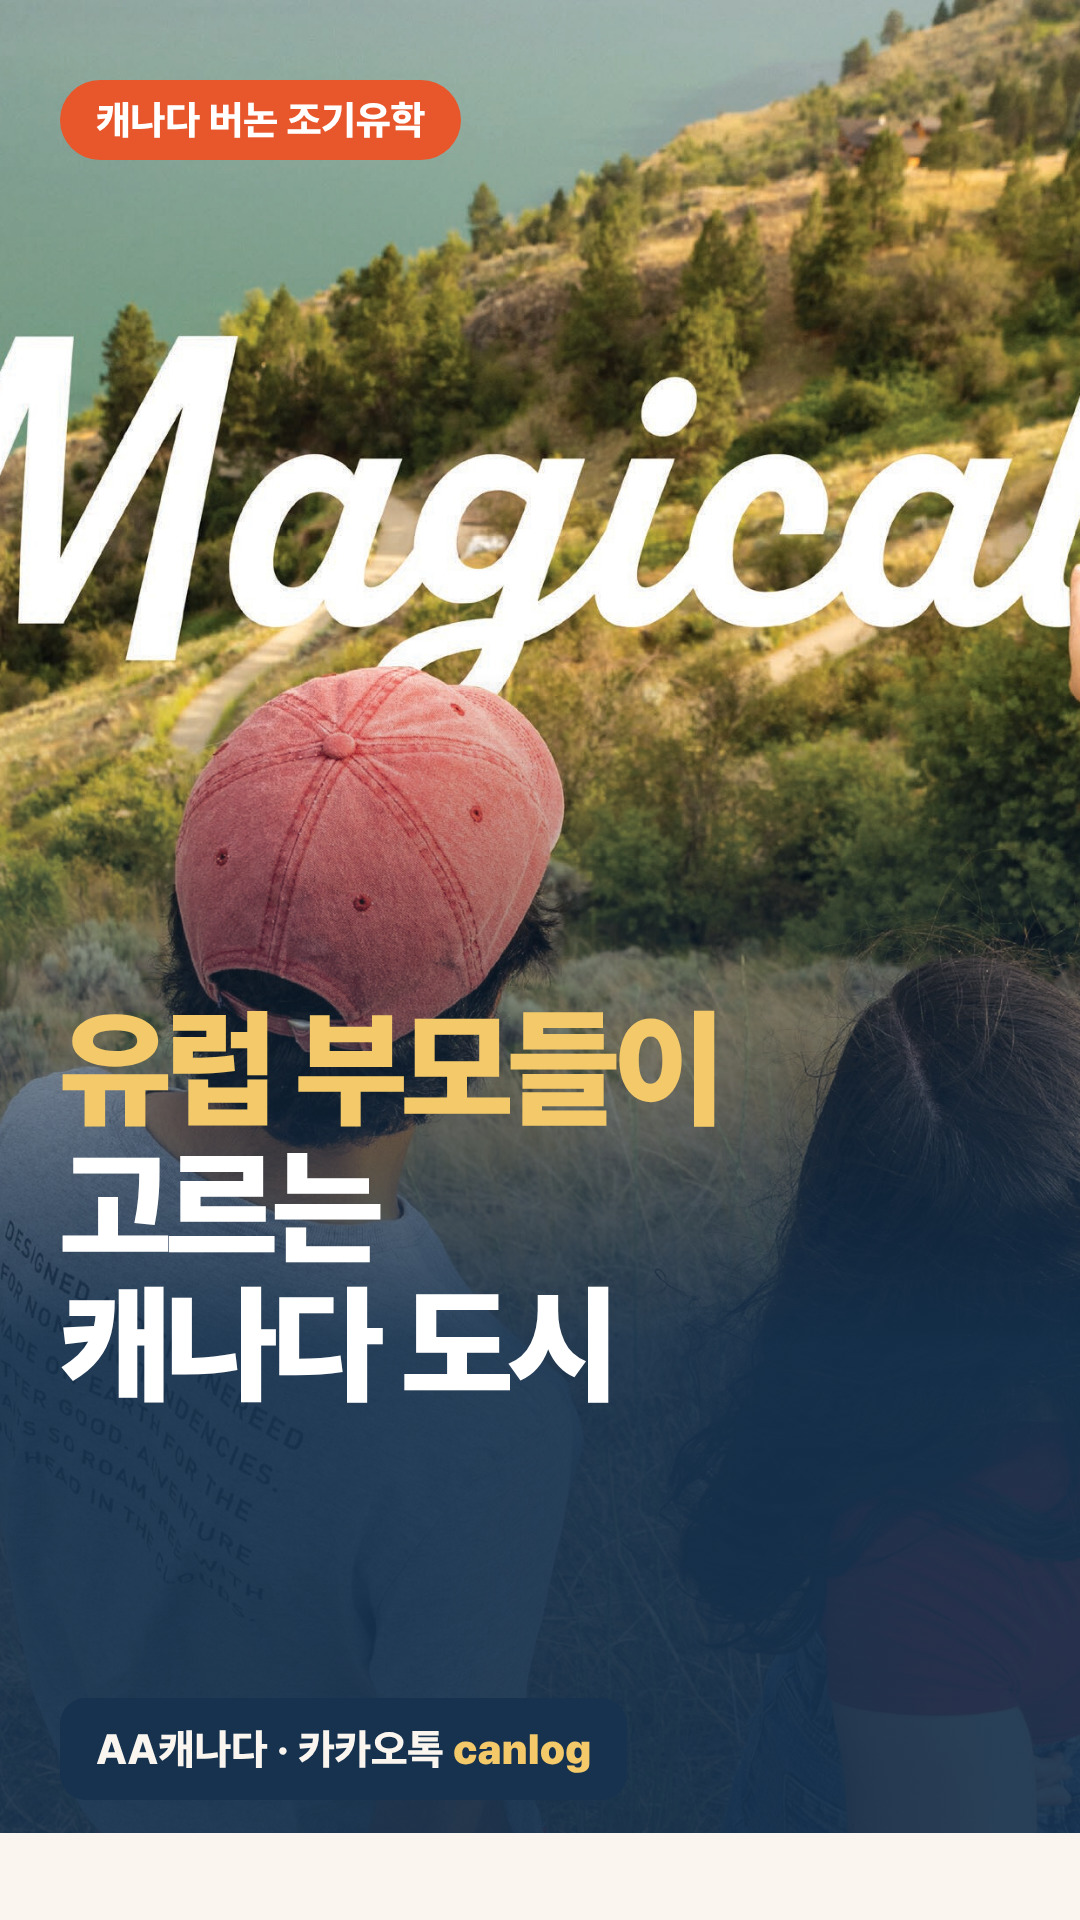
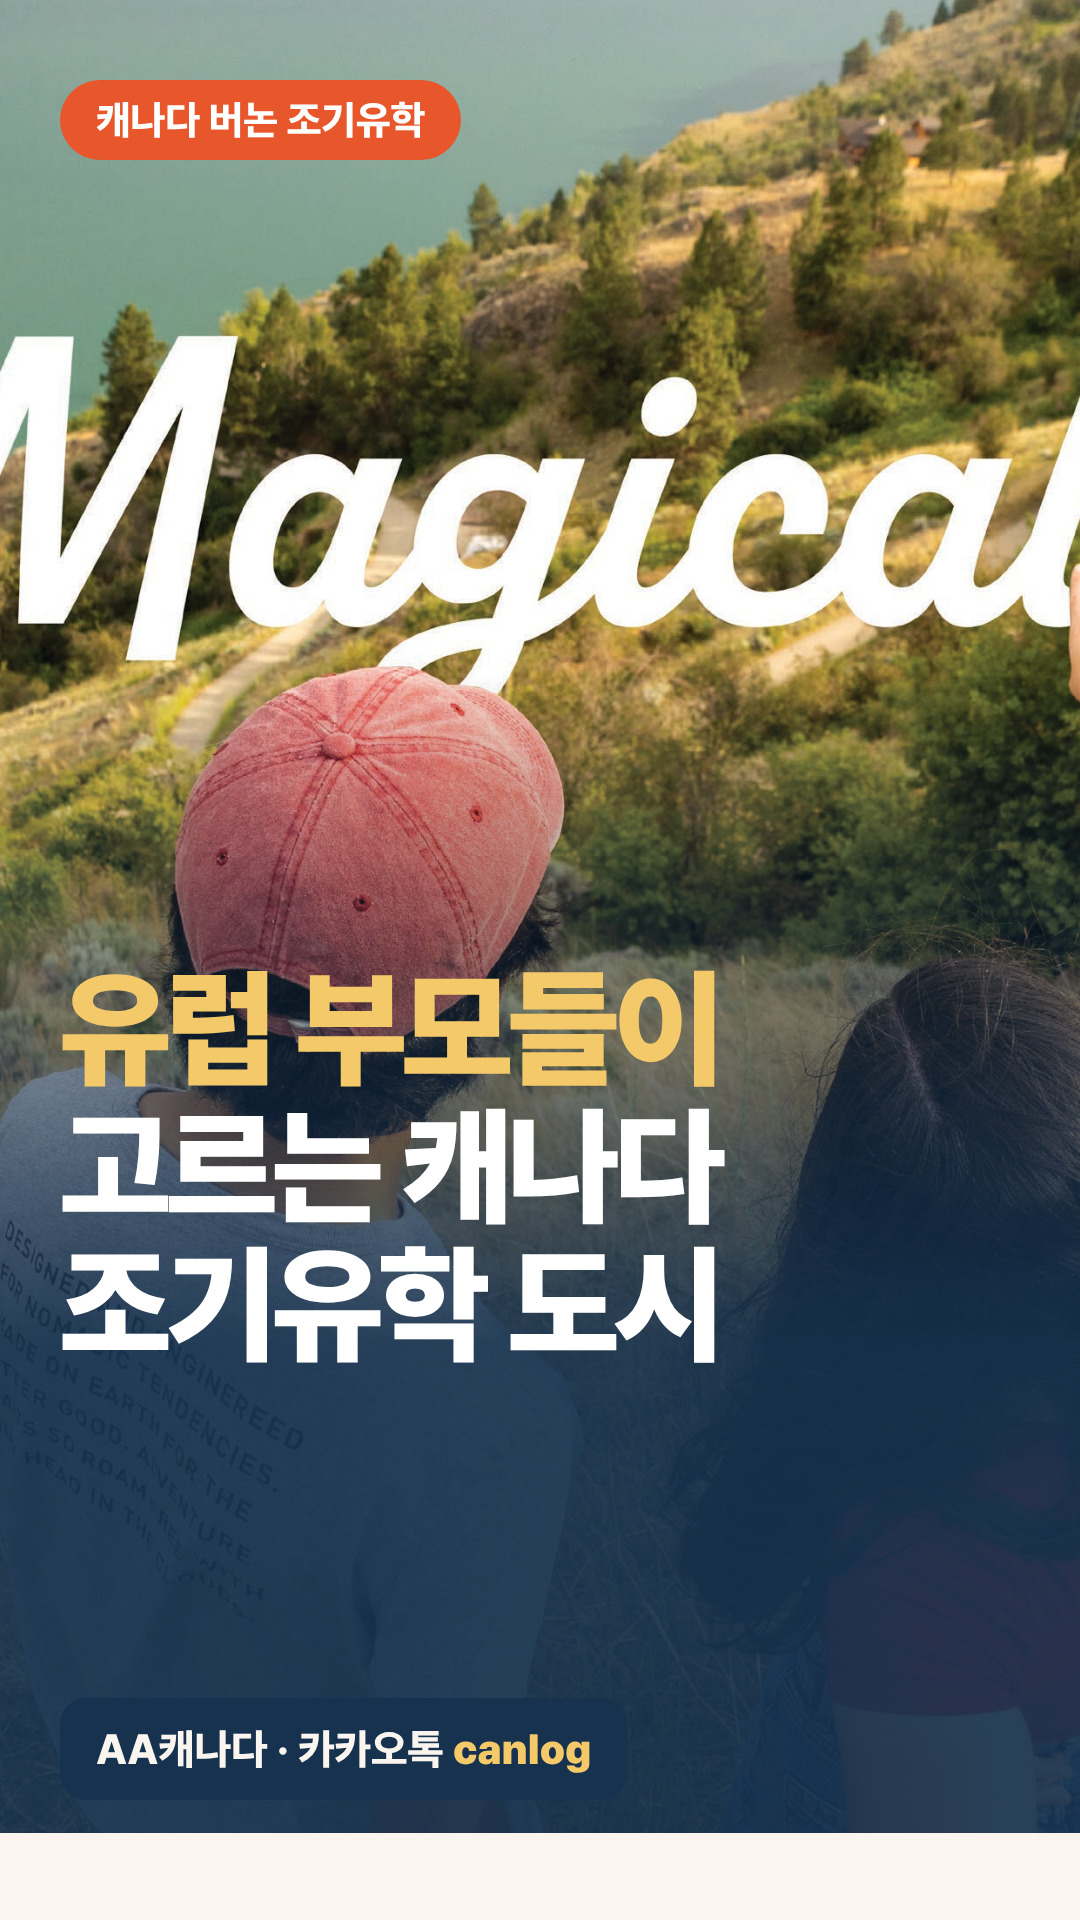
Retitle short B thumbnail to 유럽 부모들이 고르는 캐나다 조기유학 도시
Claude-Session: https://claude.ai/code/session_01M1uMKZnqdQjCNxJpnwWE1b

Changed region(s): [[0.0611, 0.5, 0.6722, 0.75]]

diff --git a/videos/vernon-shorts/thumbs/thumb-b-europe.html b/videos/vernon-shorts/thumbs/thumb-b-europe.html
@@ -15,4 +15,4 @@ body{width:1080px;height:1920px;overflow:hidden;background:#FAF6EF;font-family:P
 <div class="ph" style="inset:0"><img src="../../vernon-longform/assets/photos/03-magical-hillside.jpg"></div>
 <div class="abs" style="inset:0;background:linear-gradient(180deg,rgba(22,50,79,0) 35%,rgba(22,50,79,.92) 70%)"></div>
 <div class="chip" style="left:60px;top:80px;background:#E8572B;color:#fff">캐나다 버논 조기유학</div>
-<div class="abs t" style="left:60px;top:1000px;width:960px;font-size:128px;color:#fff"><span style="color:#F3C969">유럽 부모들이</span><br>고르는<br>캐나다 도시</div><div class="badge">AA캐나다 · 카카오톡 <b>canlog</b></div></body></html>
+<div class="abs t" style="left:60px;top:960px;width:960px;font-size:128px;color:#fff"><span style="color:#F3C969">유럽 부모들이</span><br>고르는 캐나다<br>조기유학 도시</div><div class="badge">AA캐나다 · 카카오톡 <b>canlog</b></div></body></html>
